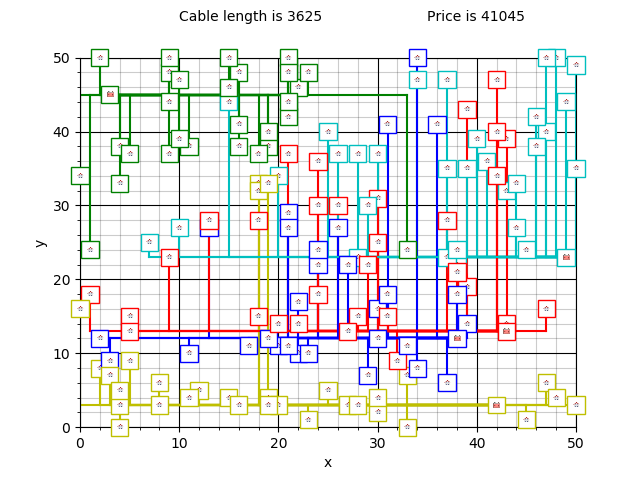
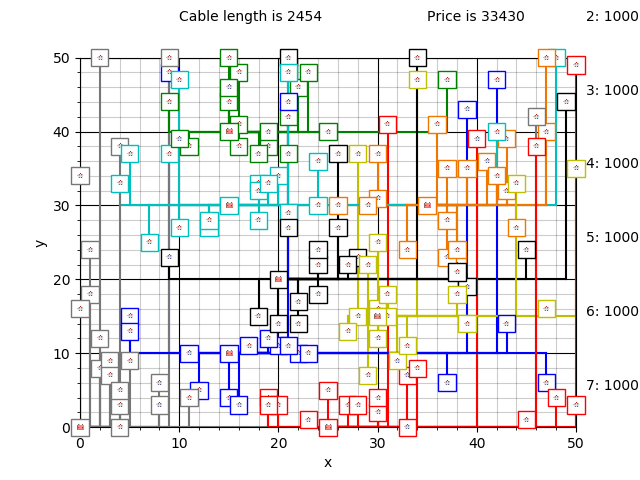
id en forlooptest

diff --git a/Functions/plot_grid.py b/Functions/plot_grid.py
@@ -21,8 +21,8 @@ def plot_grid(houses, batteries, cable_length, cost_of_neighborhood):
 	for house in houses:
 		h_x = house.x
 		h_y = house.y
-		b_x = next(battery for battery in batteries if battery.name == house.battery_no).x
-		b_y = next(battery for battery in batteries if battery.name == house.battery_no).y
+		b_x = next(battery for battery in batteries if battery.id == house.battery_no).x
+		b_y = next(battery for battery in batteries if battery.id == house.battery_no).y
 		
 		# give them the img with colored border
 		ab = AnnotationBbox(house_img, [house.x, house.y],
@@ -45,7 +45,7 @@ def plot_grid(houses, batteries, cable_length, cost_of_neighborhood):
 			xybox=(0, 0),
 			xycoords='data',
 			boxcoords="offset points",
-			bboxprops = dict(ec=colors[battery.name]))                                  
+			bboxprops = dict(ec=colors[battery.id]))                                  
 		ax.add_artist(ab)
 	
 	# make the major and minor grid
@@ -60,10 +60,10 @@ def plot_grid(houses, batteries, cable_length, cost_of_neighborhood):
 	plt.text(10, 55, "Cable length is " + str(cable_length))
 	plt.text(35, 55, "Price is " + str(cost_of_neighborhood))
 	
-	batteries = sorted(batteries, key=lambda battery: -battery.name)
+	batteries = sorted(batteries, key=lambda battery: -battery.id)
 	a = 5
 	for battery in batteries:
-		plt.text(51, a, str(battery.name) + ": " + str(battery.voltage))
+		plt.text(51, a, str(battery.id) + ": " + str(battery.voltage))
 		a += 10
 	
 	return plt

diff --git a/Test/forlooptest.py b/Test/forlooptest.py
@@ -16,14 +16,14 @@ def test_algorithm(batteries, houses, sort_battery):
 	houses = sorted(houses, key=lambda house: house.id)
 	
 	dict_list = {}
-	for i in range(0, len(batteries) - 1):
+	for i in range(0, len(batteries)):
 		dict_list["distance" + str(i) + "list"] = []
 		
 	for house in houses:
-		for i in range(0, len(batteries) - 1):
+		for i in range(0, len(batteries)):
 			dict_list["distance" + str(i) + "list"].append([abs(house.x - batteries[i].x) + abs(house.y - batteries[i].y), house.id])
 
-	for i in range(0, len(batteries) - 1):
+	for i in range(0, len(batteries)):
 		dict_list["distance" + str(i) + "list"] = sorted(dict_list["distance" + str(i) + "list"], key=lambda x: x[0])
 		
 	# Save the indexes and how many houses are placed
@@ -35,7 +35,7 @@ def test_algorithm(batteries, houses, sort_battery):
 	
 	# place all the houses
 	while (houses_to_place > 0):
-		for j in range(0, len(batteries) -1):
+		for j in range(0, len(batteries)):
 			# only try to add if it has spare voltage
 			if (batteries[j].spare_voltage > 0):
 				# place the first posible house

diff --git a/Functions/score_function.py b/Functions/score_function.py
@@ -7,8 +7,8 @@ def score_function(houses, batteries):
 		if (int(house.battery_no) >= 0):
 			h_x = house.x
 			h_y = house.y
-			b_x = next(battery for battery in batteries if battery.name == house.battery_no).x
-			b_y = next(battery for battery in batteries if battery.name == house.battery_no).y
+			b_x = next(battery for battery in batteries if battery.id == house.battery_no).x
+			b_y = next(battery for battery in batteries if battery.id == house.battery_no).y
 			cost_of_neighborhood += abs(b_y - h_y)
 			cost_of_neighborhood += abs(b_x - h_x)
 		else:
